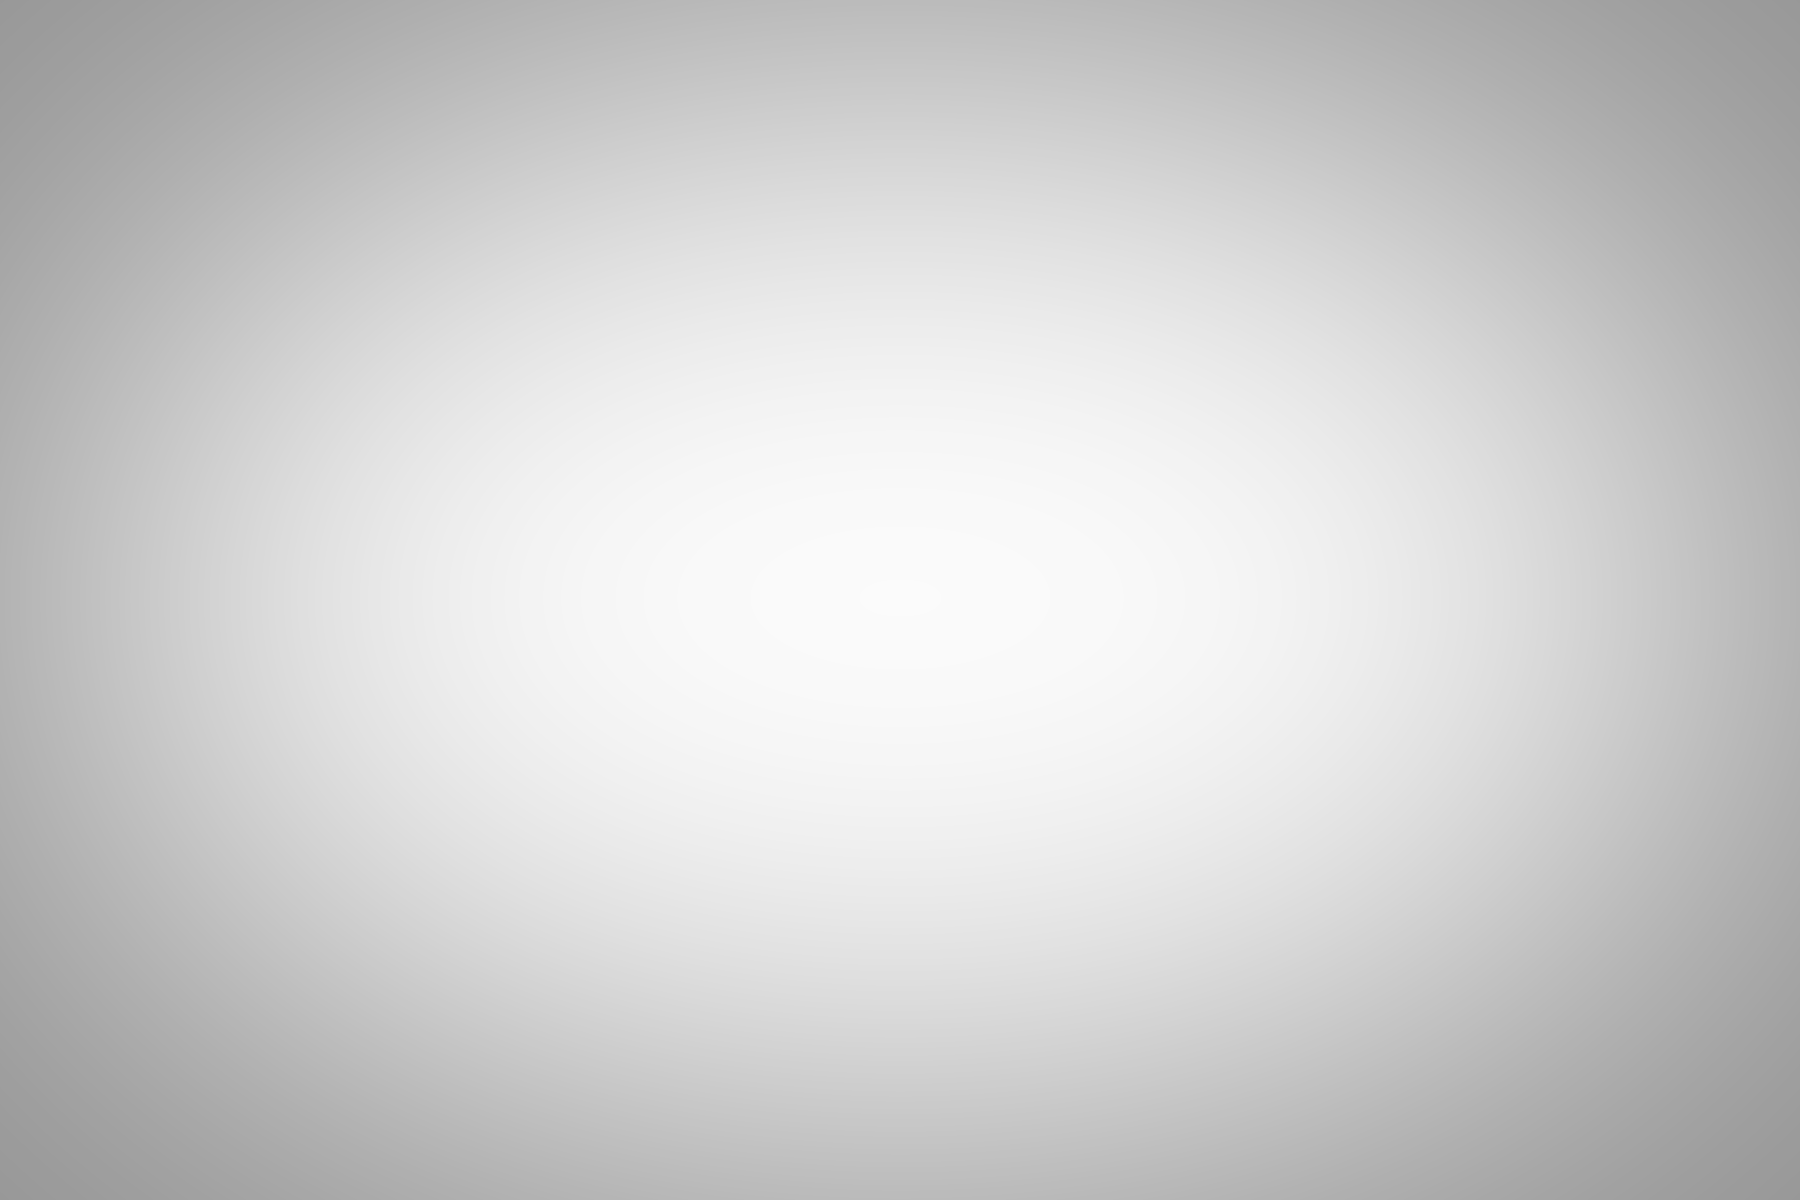
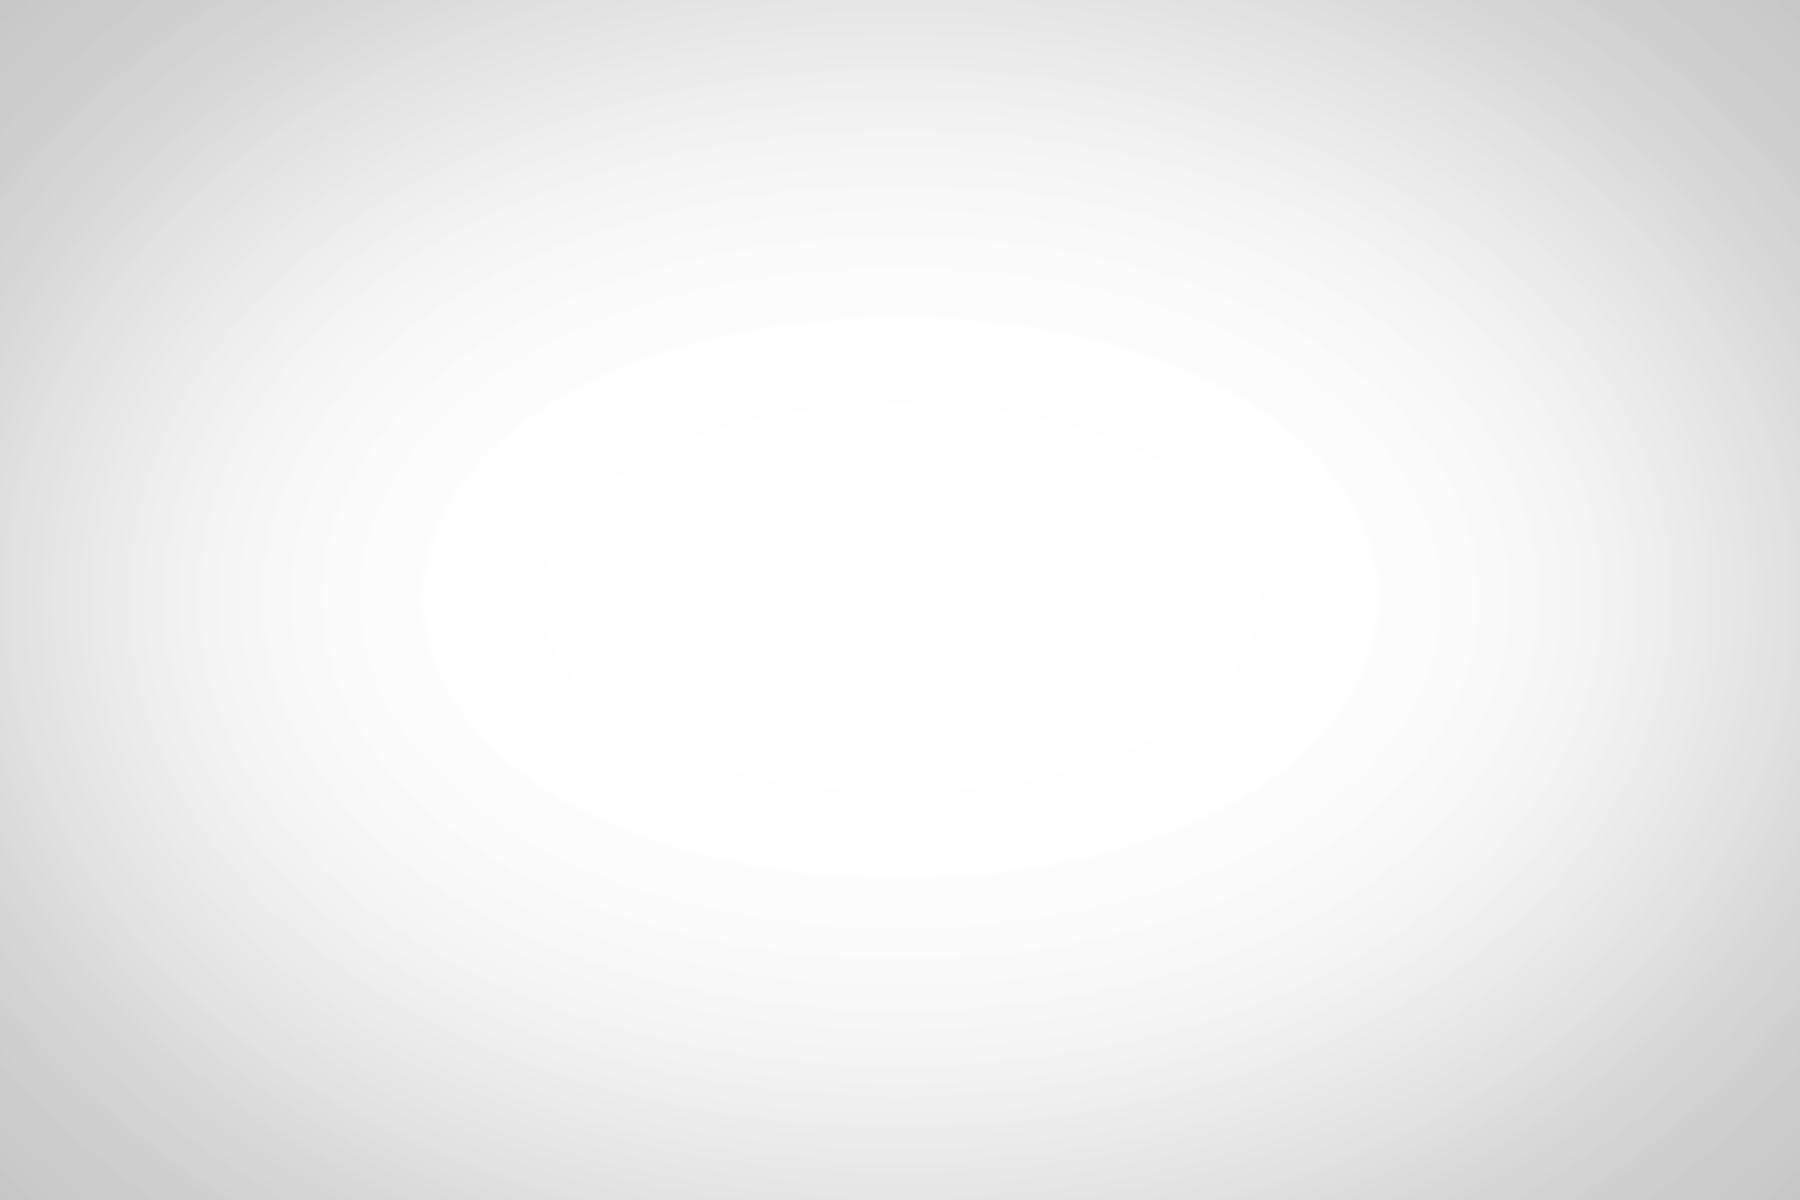
Added fog to the shader, added keybinds to toggle UI * F1 Toggles all UI * F3 Toggles Debug Menu (Except FPS) Added visible property to Entity class Decrease Viginette intensity

diff --git a/src/client/graphics/gui/DebugGui.cpp b/src/client/graphics/gui/DebugGui.cpp
@@ -6,6 +6,8 @@
 #include "../../../generic/helpers/ChunkVec.h"
 
 DebugGui::DebugGui(glm::vec2 bufferSize) {
+    displayMode = 0;
+
     fontTexture = new Texture((char*)"../res/tex/gui/font.png");
     fontTexture->load();
 
@@ -117,6 +119,41 @@ DebugGui::DebugGui(glm::vec2 bufferSize) {
     vramBack->setScale(glm::vec3(244, 64, 1));
 
     positionElements(bufferSize);
+    
+    ownedElements.push_back(dataBG);
+    ownedElements.push_back(dataText);
+
+    ownedElements.push_back(crosshairBG);
+    ownedElements.push_back(crosshairText);
+
+    ownedElements.push_back(chunkBack);
+    ownedElements.push_back(chunkHist);
+    ownedElements.push_back(chunkText);
+
+    ownedElements.push_back(meshBack);
+    ownedElements.push_back(meshHist);
+    ownedElements.push_back(meshText);
+
+    ownedElements.push_back(ssGenBack);
+    ownedElements.push_back(ssGenHist);
+    ownedElements.push_back(ssGenText);
+
+    ownedElements.push_back(ssPackBack);
+    ownedElements.push_back(ssPackHist);
+    ownedElements.push_back(ssPackText);
+
+    ownedElements.push_back(fpsBack);
+    ownedElements.push_back(fpsHist);
+    ownedElements.push_back(fpsText);
+
+    ownedElements.push_back(drawsBack);
+    ownedElements.push_back(drawsHist);
+    ownedElements.push_back(tMeshHist);
+    ownedElements.push_back(drawsText);
+
+    ownedElements.push_back(vramBack);
+    ownedElements.push_back(vramHist);
+    ownedElements.push_back(vramText);
 }
 
 void DebugGui::positionElements(glm::vec2 bufferSize) {
@@ -170,40 +207,9 @@ void DebugGui::positionElements(glm::vec2 bufferSize) {
 }
 
 void DebugGui::pushGuiObjects(std::vector<Entity*> &list) {
-    list.push_back(dataBG);
-    list.push_back(dataText);
-
-    list.push_back(crosshairBG);
-    list.push_back(crosshairText);
-
-    list.push_back(chunkBack);
-    list.push_back(chunkHist);
-    list.push_back(chunkText);
-
-    list.push_back(meshBack);
-    list.push_back(meshHist);
-    list.push_back(meshText);
-
-    list.push_back(ssGenBack);
-    list.push_back(ssGenHist);
-    list.push_back(ssGenText);
-
-    list.push_back(ssPackBack);
-    list.push_back(ssPackHist);
-    list.push_back(ssPackText);
-
-    list.push_back(fpsBack);
-    list.push_back(fpsHist);
-    list.push_back(fpsText);
-
-    list.push_back(drawsBack);
-    list.push_back(drawsHist);
-    list.push_back(tMeshHist);
-    list.push_back(drawsText);
-
-    list.push_back(vramBack);
-    list.push_back(vramHist);
-    list.push_back(vramText);
+    for (auto element : ownedElements) {
+        list.push_back(element);
+    }
 }
 
 std::string string_float(float val) {
@@ -288,6 +294,19 @@ void DebugGui::update(Player* player, LocalWorld* world, Window* window, BlockAt
 
 void DebugGui::bufferResized(glm::vec2 bufferSize) {
     positionElements(bufferSize);
+}
+
+//0 = All, 1 = None, 2 = FPS
+void DebugGui::changeVisibilityState(int state) {
+    displayMode = state;
+
+    for (auto elem : ownedElements) {
+        elem->setVisible(displayMode == 0);
+    }
+
+    fpsText->setVisible(displayMode != 1);
+    fpsHist->setVisible(displayMode != 1);
+    fpsBack->setVisible(displayMode != 1);
 }
 
 DebugGui::~DebugGui() = default;

diff --git a/src/client/game/GameScene.cpp b/src/client/game/GameScene.cpp
@@ -61,6 +61,25 @@ void GameScene::update() {
 
     debugGui.update(player, world, window, blockAtlas, state->fps, (int)world->getMeshChunks()->size(), drawCalls, server->serverSideChunkGens, server->recvPackets);
     world->update();
+
+    if (window->getKeysArray()[GLFW_KEY_F1]) {
+        if (!F1Down) {
+            F1Down = true;
+            hudVisible = !hudVisible;
+            debugGui.changeVisibilityState(hudVisible ? debugVisible ? 0 : 2 : 1);
+            gui.setVisible(hudVisible);
+        }
+    }
+    else F1Down = false;
+
+    if (window->getKeysArray()[GLFW_KEY_F3]) {
+        if (!F3Down) {
+            F3Down = true;
+            debugVisible = !debugVisible;
+            debugGui.changeVisibilityState(hudVisible ? debugVisible ? 0 : 2 : 1);
+        }
+    }
+    else F3Down = false;
 }
 
 void GameScene::draw() {
@@ -114,14 +133,16 @@ void GameScene::draw() {
     state->renderer->enableGuiShader();
 
     for (auto &entity : guiEntities) {
-        auto newTexture = entity->getTexture();
+        if (entity->isVisible()) {
+            auto newTexture = entity->getTexture();
 
-        if (newTexture != nullptr && newTexture != prevTexture) {
-            prevTexture = newTexture;
-            newTexture->use();
+            if (newTexture != nullptr && newTexture != prevTexture) {
+                prevTexture = newTexture;
+                newTexture->use();
+            }
+
+            state->renderer->draw(entity);
         }
-
-        state->renderer->draw(entity);
     }
 
     state->renderer->end();

diff --git a/src/client/graphics/gui/GameGui.cpp b/src/client/graphics/gui/GameGui.cpp
@@ -5,6 +5,8 @@
 #include "GameGui.h"
 
 GameGui::GameGui(glm::vec2 bufferSize) {
+    visible = true;
+
     crosshairTexture = new Texture((char*)"../res/tex/gui/crosshair.png");
     crosshairTexture->load();
 
@@ -36,4 +38,15 @@ GameGui::~GameGui() {
 void GameGui::bufferResized(glm::vec2 bufferSize) {
     crosshair->setPosition(glm::vec3(bufferSize.x/2 - 11, bufferSize.y/2 - 9, 0));
     viginette->setScale(glm::vec3(bufferSize.x, bufferSize.y, 1));
+}
+
+void GameGui::setVisible(bool visible) {
+    this->visible = visible;
+
+    this->crosshair->setVisible(visible);
+    this->viginette->setVisible(visible);
+}
+
+bool GameGui::isVisible() {
+    return visible;
 }

diff --git a/src/client/graphics/gui/DebugGui.h b/src/client/graphics/gui/DebugGui.h
@@ -25,8 +25,10 @@ public:
 
     ~DebugGui();
 
+    void changeVisibilityState(int state);
 private:
     int videoMemAvail, videoMemTotal;
+    int displayMode;
 
     Texture *fontTexture;
     Texture *colorHistTexture, *whiteHistTexture, *transWhiteHistTexture;
@@ -38,6 +40,9 @@ private:
     Histogram  *chunkHist, *meshHist, *fpsHist, *drawsHist, *tMeshHist, *vramHist, *ssGenHist, *ssPackHist;
     RectEntity *chunkBack, *meshBack, *fpsBack, *drawsBack, *vramBack, *ssGenBack, *ssPackBack;
 
+    std::vector<Entity*> ownedElements;
+
+    bool visible;
 };
 
 

diff --git a/src/client/engine/Entity.cpp b/src/client/engine/Entity.cpp
@@ -8,6 +8,7 @@ Entity::Entity() {
     position = glm::vec3(0, 0, 0);
     scale = glm::vec3(1, 1, 1);
     angle = 0;
+    visible = true;
 }
 
 void Entity::create(Mesh* myMesh) {
@@ -75,4 +76,12 @@ glm::mat4 Entity::getModelMatrix() {
 
 Entity::~Entity() {
     cleanup();
+}
+
+void Entity::setVisible(bool visible) {
+    this->visible = visible;
+}
+
+bool Entity::isVisible() {
+    return visible;
 }

diff --git a/src/client/engine/Entity.h b/src/client/engine/Entity.h
@@ -36,6 +36,9 @@ public:
 
     glm::mat4 getModelMatrix();
 
+    void setVisible(bool visible);
+    bool isVisible();
+
     ~Entity();
 protected:
     Mesh* mesh;
@@ -44,6 +47,8 @@ protected:
     glm::vec3 position;
     glm::vec3 scale;
     GLfloat angle;
+
+    bool visible;
 };
 
 

diff --git a/src/client/graphics/gui/GameGui.h b/src/client/graphics/gui/GameGui.h
@@ -18,9 +18,14 @@ public:
     void pushGuiObjects(std::vector<Entity*> &list);
 
     ~GameGui();
+
+    void setVisible(bool visible);
+    bool isVisible();
 private:
     Texture* crosshairTexture, *viginetteTexture;
     Entity* crosshair, *viginette;
+
+    bool visible;
 };
 
 

diff --git a/src/client/engine/graphics/Renderer.cpp b/src/client/engine/graphics/Renderer.cpp
@@ -52,7 +52,7 @@ void Renderer::update() {
 
 void Renderer::begin() {
     //Clear Window
-    glClearColor(0.5f, 0.7f, 0.9f, 1.0f);
+    glClearColor(0.58f, 0.76f, 0.94f, 1.0f);
     glClear(GL_COLOR_BUFFER_BIT | GL_DEPTH_BUFFER_BIT);
 }
 

diff --git a/src/client/game/GameScene.h b/src/client/game/GameScene.h
@@ -49,6 +49,12 @@ public:
     GameGui gui;
 
     int drawCalls;
+
+    bool F1Down = false;
+    bool F3Down = false;
+
+    bool debugVisible = true;
+    bool hudVisible = true;
 };
 
 
